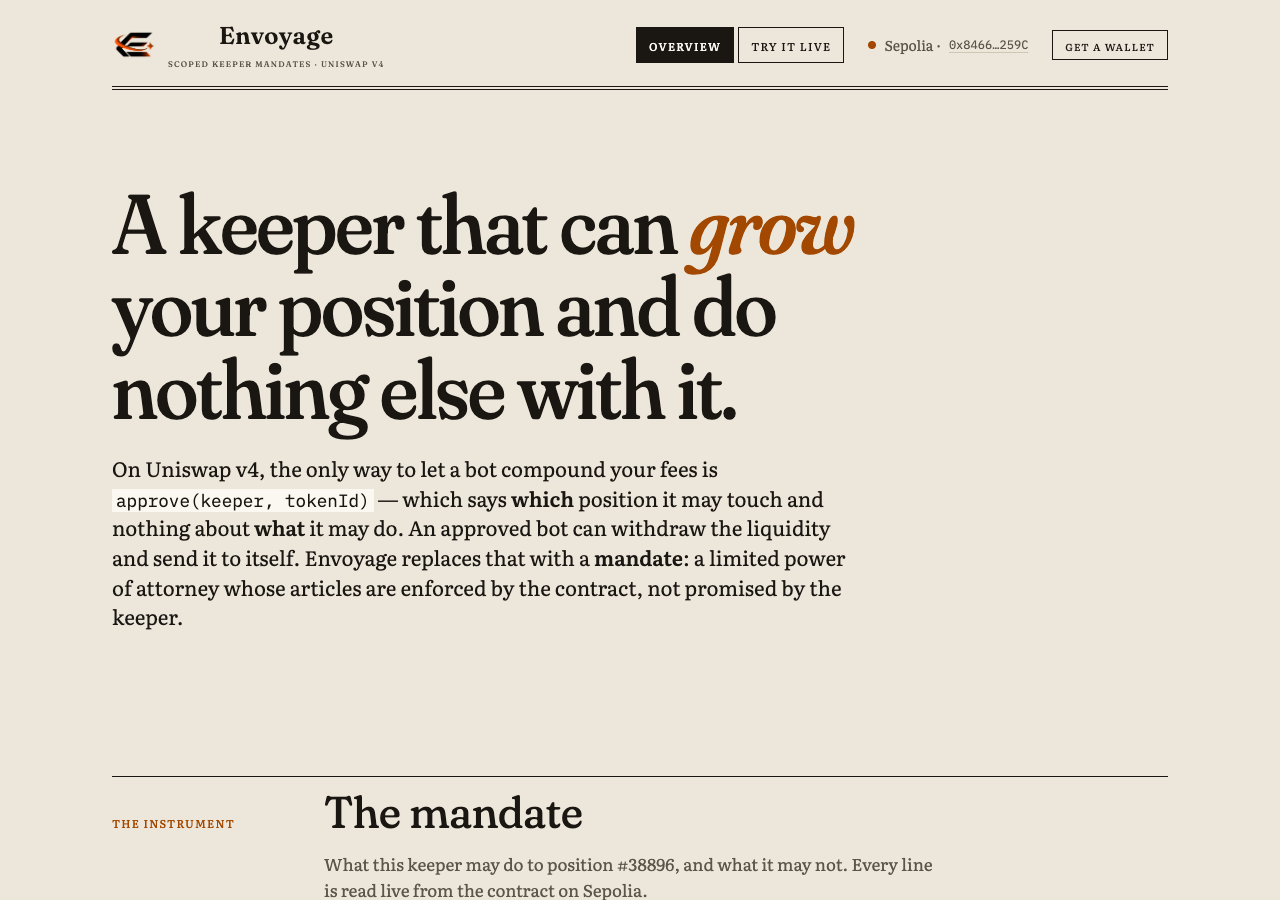
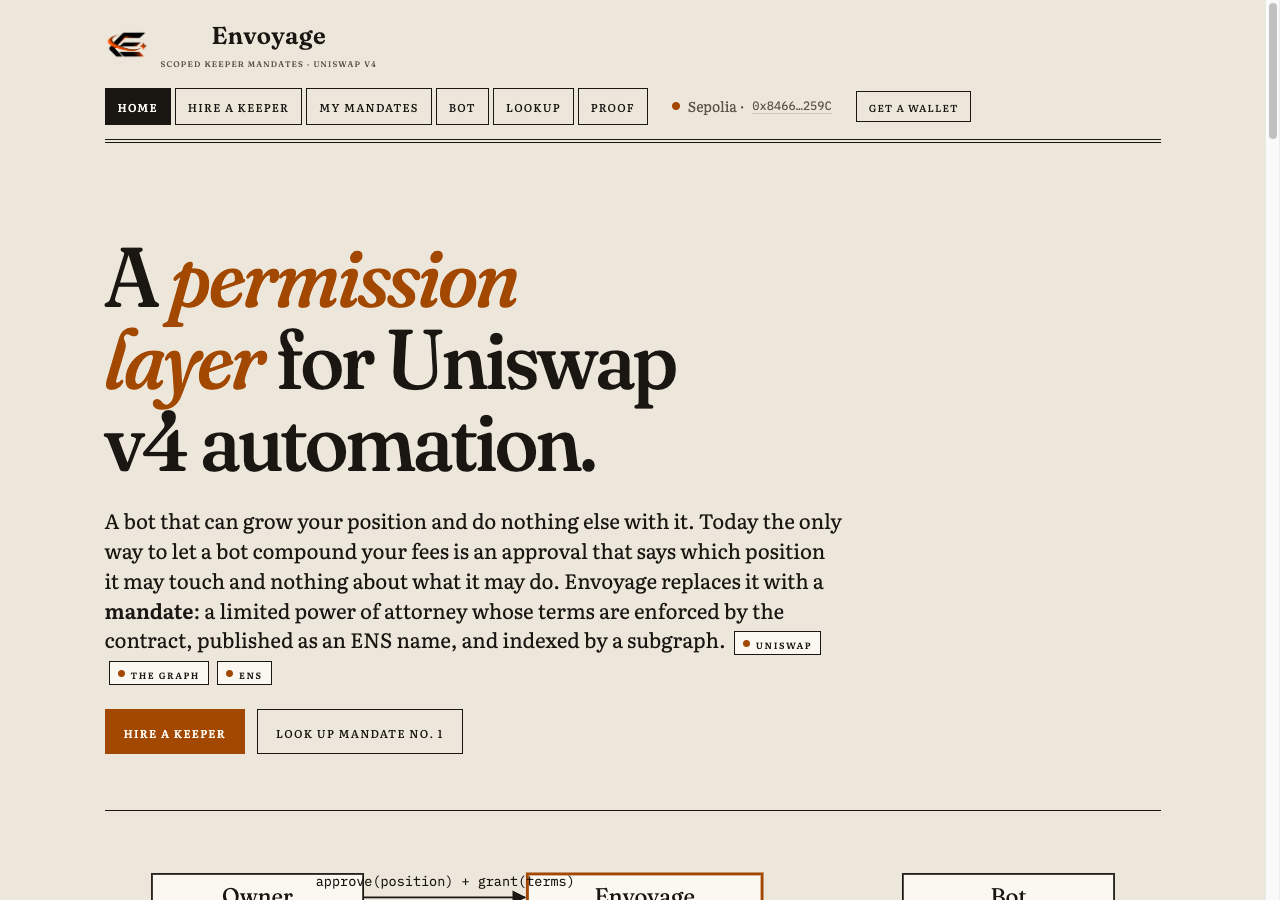
feat(web): U7 — Home: one sentence, the fit diagram, mandate #1 as the worked example, census
The hero is one sentence — a permission layer for Uniswap v4 automation —
with the three sponsor labels in the paragraph beneath and two calls to
action (Hire a keeper, Look up mandate No. 1). Directly under it the diagram
from docs/submission/HOW-IT-FITS.md as SVG: Owner, Envoyage, Bot, Uniswap v4,
The Graph, ENS, with every arrow a real call on Sepolia, in ink and one amber
and with a text alternative. Overview loses its lede and becomes the worked
example (Mandate No. 1, live) plus the ledger, the ENS exhibit and the census
by network, each reading independently with its own error state; it
references DEMO_MANDATE_ID only.

Screens: web-desktop.png, web-fold.png, web-mobile.png refreshed; order at
1280 is sentence → diagram → example → census; no overflow at 375.

Claude-Session: https://claude.ai/code/session_01CyGqVMVs5mv8YtKPQLUTam

diff --git a/web/src/ui/FitDiagram.tsx b/web/src/ui/FitDiagram.tsx
@@ -1,0 +1,75 @@
+/// The one-screen diagram from docs/submission/HOW-IT-FITS.md, as SVG. Every
+/// arrow is a real call on Sepolia. Drawn in ink and one amber so it reads on
+/// paper; text sizes are in viewBox units and scale with the width.
+export function FitDiagram() {
+  const box = (x: number, y: number, w: number, h: number, title: string, sub: string, amber = false) => (
+    <g>
+      <rect x={x} y={y} width={w} height={h} fill="var(--paper)" stroke={amber ? "var(--amber)" : "var(--ink)"} strokeWidth={amber ? 2.5 : 1.5} />
+      <text x={x + w / 2} y={y + 26} textAnchor="middle" className="fd-title">
+        {title}
+      </text>
+      <text x={x + w / 2} y={y + 46} textAnchor="middle" className="fd-sub">
+        {sub}
+      </text>
+    </g>
+  );
+  const arrow = (d: string, label: string, lx: number, ly: number, amber = false) => (
+    <g>
+      <path d={d} fill="none" stroke={amber ? "var(--amber)" : "var(--ink)"} strokeWidth={1.5} markerEnd={amber ? "url(#fd-arrow-amber)" : "url(#fd-arrow)"} />
+      <text x={lx} y={ly} className="fd-label" textAnchor="middle">
+        {label}
+      </text>
+    </g>
+  );
+  return (
+    <figure className="fit" aria-labelledby="fit-cap">
+      <svg viewBox="0 0 900 470" role="img" aria-label="How Owner, Envoyage, Uniswap, The Graph, the bot and ENS relate">
+        <defs>
+          <marker id="fd-arrow" viewBox="0 0 10 10" refX="9" refY="5" markerWidth="8" markerHeight="8" orient="auto-start-reverse">
+            <path d="M 0 0 L 10 5 L 0 10 z" fill="var(--ink)" />
+          </marker>
+          <marker id="fd-arrow-amber" viewBox="0 0 10 10" refX="9" refY="5" markerWidth="8" markerHeight="8" orient="auto-start-reverse">
+            <path d="M 0 0 L 10 5 L 0 10 z" fill="var(--amber)" />
+          </marker>
+        </defs>
+
+        {box(40, 40, 180, 64, "Owner", "holds position #38896")}
+        {box(360, 40, 200, 64, "Envoyage", "the contract · one function", true)}
+        {box(680, 40, 180, 64, "Bot", "the keeper")}
+        {box(40, 240, 200, 64, "Uniswap v4", "PositionManager")}
+        {box(360, 240, 200, 64, "The Graph", "envoyage subgraph")}
+        {box(680, 240, 180, 64, "ENS v2", "38896.envoyage.eth")}
+
+        {arrow("M 220 60 L 358 60", "approve(position) + grant(terms)", 290, 50)}
+        {arrow("M 358 84 L 222 84", "revoke() any time", 290, 100)}
+        {arrow("M 678 72 L 562 72", "compound(id) — the only call it has", 620, 122, true)}
+        {arrow("M 400 104 L 160 238", "two Uniswap calls, written by Envoyage", 250, 160, true)}
+        {arrow("M 140 240 L 140 104", "", 0, 0)}
+        <text x={100} y={180} className="fd-label" textAnchor="middle">
+          owns
+        </text>
+        {arrow("M 242 272 L 358 272", "emits MandateExecuted", 300, 262)}
+        {arrow("M 562 262 L 770 106", "task list: which mandates name me?", 700, 190)}
+        {arrow("M 770 240 L 500 104", "", 0, 0)}
+        <text x={640} y={222} className="fd-label" textAnchor="middle">
+          writes one key: envoyage:lastRun
+        </text>
+        {arrow("M 560 100 L 700 238", "publishes the scope as text records", 560, 200, true)}
+
+        <text x={450} y={370} textAnchor="middle" className="fd-foot">
+          Anyone can read what this bot may do — and after revoke, what it once could.
+        </text>
+        <text x={450} y={396} textAnchor="middle" className="fd-sub">
+          Uniswap is what is protected · The Graph is how the bot knows what to do and how anyone knows what it did · ENS is how the mandate is legible without our software
+        </text>
+        <text x={450} y={440} textAnchor="middle" className="fd-sub">
+          Every arrow is a real transaction or read on Sepolia today.
+        </text>
+      </svg>
+      <figcaption id="fit-cap" className="visually-hidden">
+        The owner approves a position to Envoyage and grants terms; Envoyage alone calls the Uniswap PositionManager; the bot's only call is compound;
+        the subgraph gives the bot its task list and records executions; ENS publishes the scope and lets the bot write one key.
+      </figcaption>
+    </figure>
+  );
+}

diff --git a/web/src/ui/Overview.tsx b/web/src/ui/Overview.tsx
@@ -133,26 +133,11 @@ export function Overview() {
 
   return (
     <>
-      {/* 1 ── what this is, before any number */}
-      <section className="lede" aria-labelledby="lede-h">
-        <h1 id="lede-h">
-          A keeper that can <em>grow</em> your position and do nothing else with it.
-        </h1>
-        <p>
-          On Uniswap v4, the only way to let a bot compound your fees is{" "}
-          <code>approve(keeper, tokenId)</code> — which says <strong>which</strong> position it may
-          touch and nothing about <strong>what</strong> it may do. An approved bot can withdraw
-          the liquidity and send it to itself. Envoyage replaces that with a{" "}
-          <strong>mandate</strong>: a limited power of attorney whose articles are enforced by the
-          contract, not promised by the keeper.
-        </p>
-      </section>
-
       {/* 2 ── the instrument */}
       <section className="exhibit" aria-labelledby="s2">
         <div className="exhibit-head">
-          <span className="caps">The instrument</span>
-          <h2 id="s2">The mandate</h2>
+          <span className="caps">Worked example</span>
+          <h2 id="s2">Mandate No. {DEMO_MANDATE_ID.toString()}, live</h2>
           <p>
             What this keeper may do to position #{mandate?.tokenId.toString() ?? "…"}, and what it may
             not. Every line is read live from the contract on Sepolia.

diff --git a/web/src/ui/Home.tsx b/web/src/ui/Home.tsx
@@ -1,0 +1,31 @@
+import {FitDiagram} from "./FitDiagram";
+import {Overview} from "./Overview";
+import {Sponsor} from "./kit";
+
+/// One sentence, the diagram, then the worked example and the census (Overview).
+export function Home({go}: {go: (r: string) => void}) {
+  return (
+    <>
+      <section className="lede" aria-labelledby="home-h">
+        <h1 id="home-h">
+          A <em>permission layer</em> for Uniswap v4 automation.
+        </h1>
+        <p>
+          A bot that can grow your position and do nothing else with it. Today the only way to let a bot compound your fees is an approval that says which position it may touch and nothing about what it may
+          do. Envoyage replaces it with a <strong>mandate</strong>: a limited power of attorney whose terms are enforced by the contract, published
+          as an ENS name, and indexed by a subgraph. <Sponsor name="Uniswap" /> <Sponsor name="The Graph" /> <Sponsor name="ENS" />
+        </p>
+        <p className="lede-actions">
+          <button className="act act-primary" onClick={() => go("hire")}>
+            Hire a keeper
+          </button>
+          <button className="act act-ghost" onClick={() => go("lookup/1")}>
+            Look up mandate No. 1
+          </button>
+        </p>
+      </section>
+      <FitDiagram />
+      <Overview />
+    </>
+  );
+}

diff --git a/web/src/styles.css b/web/src/styles.css
@@ -1505,3 +1505,45 @@ input[type="radio"]:focus-visible {
   border: 2px solid var(--amber);
   font-size: 15px;
 }
+
+/* ── home (U7) ──────────────────────────────────────────────────────────── */
+.lede-actions {
+  display: flex;
+  gap: 12px;
+  flex-wrap: wrap;
+  margin-top: 24px !important;
+}
+.lede .sponsor {
+  margin-left: 4px;
+}
+.fit {
+  margin: 0;
+  padding: 0;
+  border-top: 1px solid var(--ink);
+  padding-top: 16px;
+}
+.fit svg {
+  width: 100%;
+  height: auto;
+  display: block;
+  max-width: 100%;
+}
+.fd-title {
+  font-family: var(--display);
+  font-size: 19px;
+  fill: var(--ink);
+}
+.fd-sub {
+  font-size: 12.5px;
+  fill: var(--ink-muted);
+}
+.fd-label {
+  font-family: var(--mono);
+  font-size: 11.5px;
+  fill: var(--ink);
+}
+.fd-foot {
+  font-family: var(--display);
+  font-size: 18px;
+  fill: var(--ink);
+}

diff --git a/web/src/App.tsx b/web/src/App.tsx
@@ -1,6 +1,6 @@
 import {SessionProvider} from "./lib/session";
 import {Shell} from "./ui/Shell";
-import {Overview} from "./ui/Overview";
+import {Home} from "./ui/Home";
 import {useTheft, OldWay, MandateTheft} from "./ui/Theft";
 import {KeeperActs} from "./ui/KeeperActs";
 import {ConnectPanel} from "./ui/ConnectPanel";
@@ -66,7 +66,7 @@ function Screens(route: string, go: (r: string) => void) {
     case "demo":
       return <Proof />;
     default:
-      return <Overview />;
+      return <Home go={go} />;
   }
 }
 
